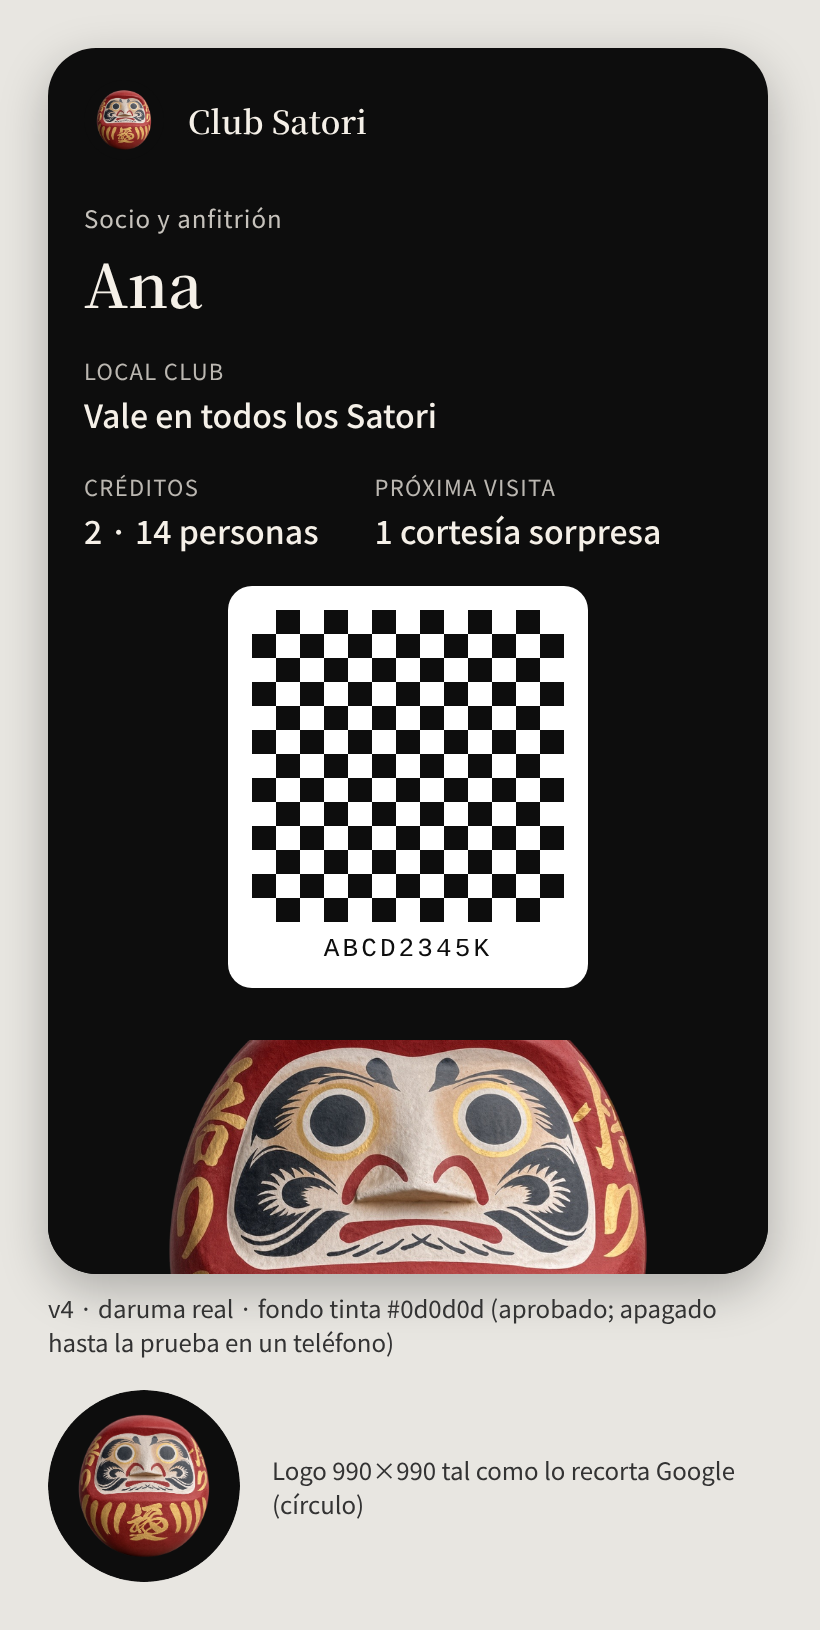
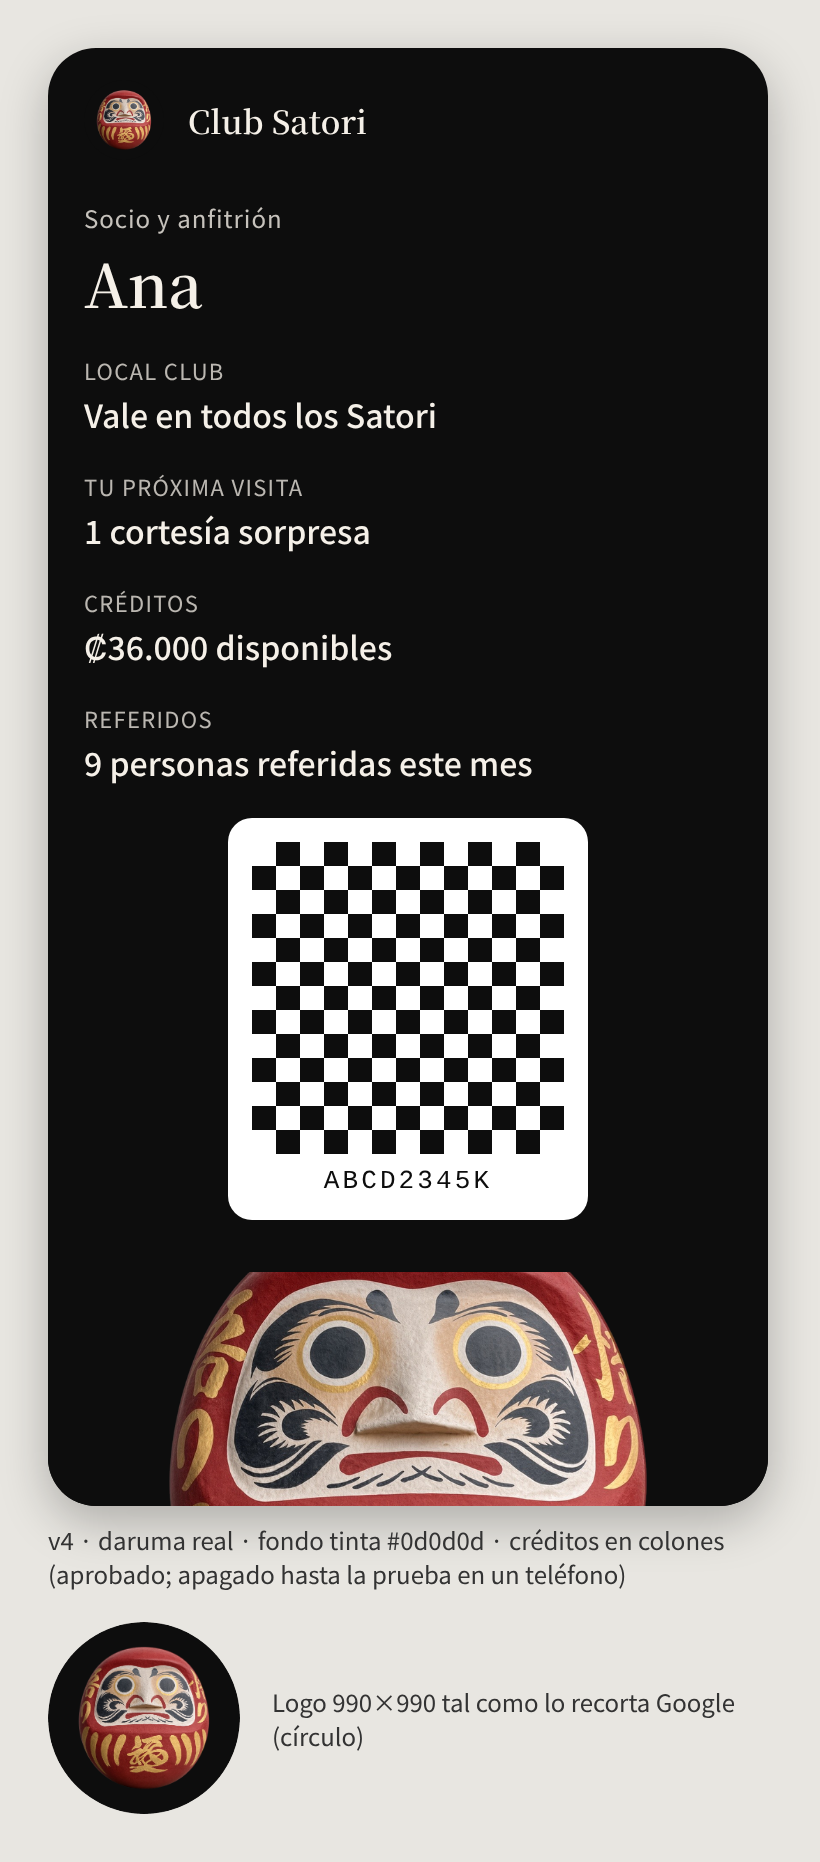
feat(pase): créditos claros — «₡36.000 disponibles» y «9 personas referidas este mes» (ES/EN)
«2 · 14 personas» no se entendía (Ismael, 08-nov). El saldo va en colones (créditos × valor del
crédito, miles con separador fijo, sin depender del locale del Edge) y, si el mes suma, las
personas referidas van en otra línea. Maqueta v4 al día. El pase sigue apagado.

Claude-Session: https://claude.ai/code/session_012WttwDN2JPYLqpCXCgWFwh

diff --git a/src/shared/wallet/googlePase.test.ts b/src/shared/wallet/googlePase.test.ts
@@ -2,7 +2,7 @@
 // (nunca hay una clave escrita en el repo, ni de prueba).
 import { describe, it, expect, beforeAll } from 'vitest'
 import {
-  armarClase, armarObjeto, DISENO_PROPUESTO, firmarJwt, firmarJwtFlaco, LARGO_JWT_RECOMENDADO, urlGuardar, validarDatos, leerCuentaServicio, beneficioEn, idObjeto,
+  armarClase, armarObjeto, colones, DISENO_PROPUESTO, firmarJwt, firmarJwtFlaco, LARGO_JWT_RECOMENDADO, urlGuardar, validarDatos, leerCuentaServicio, beneficioEn, idObjeto,
   type PaseDatos, type CuentaServicio,
 } from './googlePase'
 
@@ -84,6 +84,31 @@ describe('armarObjeto', () => {
     expect(cort?.body).toBe('1 cortesía sorpresa')
     expect(cort?.localizedBody.translatedValues[0]).toEqual({ language: 'en', value: '1 surprise treat' })
     expect(o.subheader.defaultValue.value).toBe('Socio y anfitrión')
+  })
+
+  it('créditos claros (Ismael, 08-nov): el saldo en colones y las personas del mes en otra línea, ES/EN', () => {
+    const o = obj(armarObjeto(ISSUER, base()))
+    const cred = o.textModulesData.find((t) => t.id === 'creditos')
+    expect(cred?.body).toBe('₡36.000 disponibles')
+    expect(cred?.localizedBody.translatedValues[0]).toEqual({ language: 'en', value: '₡36,000 available' })
+    const ref = o.textModulesData.find((t) => t.id === 'referidos')
+    expect(ref?.body).toBe('9 personas referidas este mes')
+    expect(ref?.localizedBody.translatedValues[0]).toEqual({ language: 'en', value: '9 guests referred this month' })
+    expect(o.textModulesData.some((t) => / · \d+ personas/.test(t.body))).toBe(false)
+    // medio crédito y una sola persona; sin referidos en el mes no hay línea
+    const b = base()
+    const uno = obj(armarObjeto(ISSUER, { ...b, anfitrion: { ...b.anfitrion!, creditos: 0.5, referidos_mes: 1 } }))
+    expect(uno.textModulesData.find((t) => t.id === 'creditos')?.body).toBe('₡9.000 disponibles')
+    expect(uno.textModulesData.find((t) => t.id === 'referidos')?.body).toBe('1 persona referida este mes')
+    const cero = obj(armarObjeto(ISSUER, { ...b, anfitrion: { ...b.anfitrion!, creditos: 0, referidos_mes: 0 } }))
+    expect(cero.textModulesData.find((t) => t.id === 'creditos')?.body).toBe('₡0 disponibles')
+    expect(cero.textModulesData.some((t) => t.id === 'referidos')).toBe(false)
+  })
+
+  it('colones: miles con separador fijo', () => {
+    expect(colones(1234567, '.')).toBe('₡1.234.567')
+    expect(colones(999, ',')).toBe('₡999')
+    expect(colones(18000.4, ',')).toBe('₡18,000')
   })
 
   it('Club compartido: el socio ve «Vale en todos los Satori» (ES/EN) y el pase no lista promociones', () => {

diff --git a/src/shared/wallet/googlePase.ts b/src/shared/wallet/googlePase.ts
@@ -80,8 +80,8 @@ const loc = (t: Txt): LocalizedString => ({
   defaultValue: { language: 'es', value: t.es },
   translatedValues: [{ language: 'en', value: t.en }],
 })
-const num = (n: number) => (Math.round(n * 10) / 10).toString().replace('.', ',')
-const numEn = (n: number) => (Math.round(n * 10) / 10).toString()
+/** ₡ con separador de miles fijo (no depende del locale del Edge): «₡36.000» en español, «₡36,000» en inglés. */
+export const colones = (n: number, sep: '.' | ',') => '₡' + Math.round(n).toString().replace(/\B(?=(\d{3})+(?!\d))/g, sep)
 
 /** El beneficio viene de la base en español («10 % + 1 cortesía»): el inglés se arma con los mismos números. */
 export function beneficioEn(es: string): string {
@@ -162,9 +162,15 @@ export function armarObjeto(issuerId: string, d: PaseDatos, diseno: DisenoPase =
   }
 
   if (anf && anf.activo) {
+    // (Ismael, 08-nov) «2 · 14 personas» no se entendía: el saldo en colones y, si suma, las personas del mes aparte
     textos.push(modulo('creditos', { es: 'Créditos', en: 'Credits' },
-      { es: `${num(anf.creditos)} · ${anf.personas} ${anf.personas === 1 ? 'persona' : 'personas'}`,
-        en: `${numEn(anf.creditos)} · ${anf.personas} ${anf.personas === 1 ? 'guest' : 'guests'}` }))
+      { es: `${colones(anf.creditos * anf.valor_credito_crc, '.')} disponibles`,
+        en: `${colones(anf.creditos * anf.valor_credito_crc, ',')} available` }))
+    if (anf.referidos_mes > 0) {
+      textos.push(modulo('referidos', { es: 'Referidos', en: 'Referrals' },
+        { es: `${anf.referidos_mes} ${anf.referidos_mes === 1 ? 'persona referida' : 'personas referidas'} este mes`,
+          en: `${anf.referidos_mes} ${anf.referidos_mes === 1 ? 'guest' : 'guests'} referred this month` }))
+    }
     textos.push(modulo('proximo', { es: 'Para el próximo medio crédito', en: 'To your next half credit' },
       { es: `${anf.personas_proximo_medio} ${anf.personas_proximo_medio === 1 ? 'persona' : 'personas'}`,
         en: `${anf.personas_proximo_medio} ${anf.personas_proximo_medio === 1 ? 'guest' : 'guests'}` }))

diff --git a/docs/club-satori/PROPUESTA-diseno-pase.md b/docs/club-satori/PROPUESTA-diseno-pase.md
@@ -11,6 +11,8 @@
   logo en círculo); fuera del círculo, transparente.
 - **Franja** (`heroImage`, 1032×336, `club-web/public/pase/hero.png`): la cara del daruma sobre tinta.
 - **Texto del socio:** «Vale en todos los Satori» (Club compartido), sin lista de promociones.
+- **Créditos del anfitrión** (Ismael, 08-nov): el saldo en colones, «₡36.000 disponibles» / «₡36,000 available», y
+  si suma, en otra línea, «9 personas referidas este mes» / «9 guests referred this month». Ya no «2 · 14 personas».
 - **De dónde salen:** `docs/club-satori/img/daruma/` guarda el original sin tocar y los scripts (`daruma_assets.py`: solo
   recorta el fondo blanco, escala y compone sobre tinta). La maqueta se regenera con
   `node docs/club-satori/img/pase-render.mjs` desde la raíz del repo.
